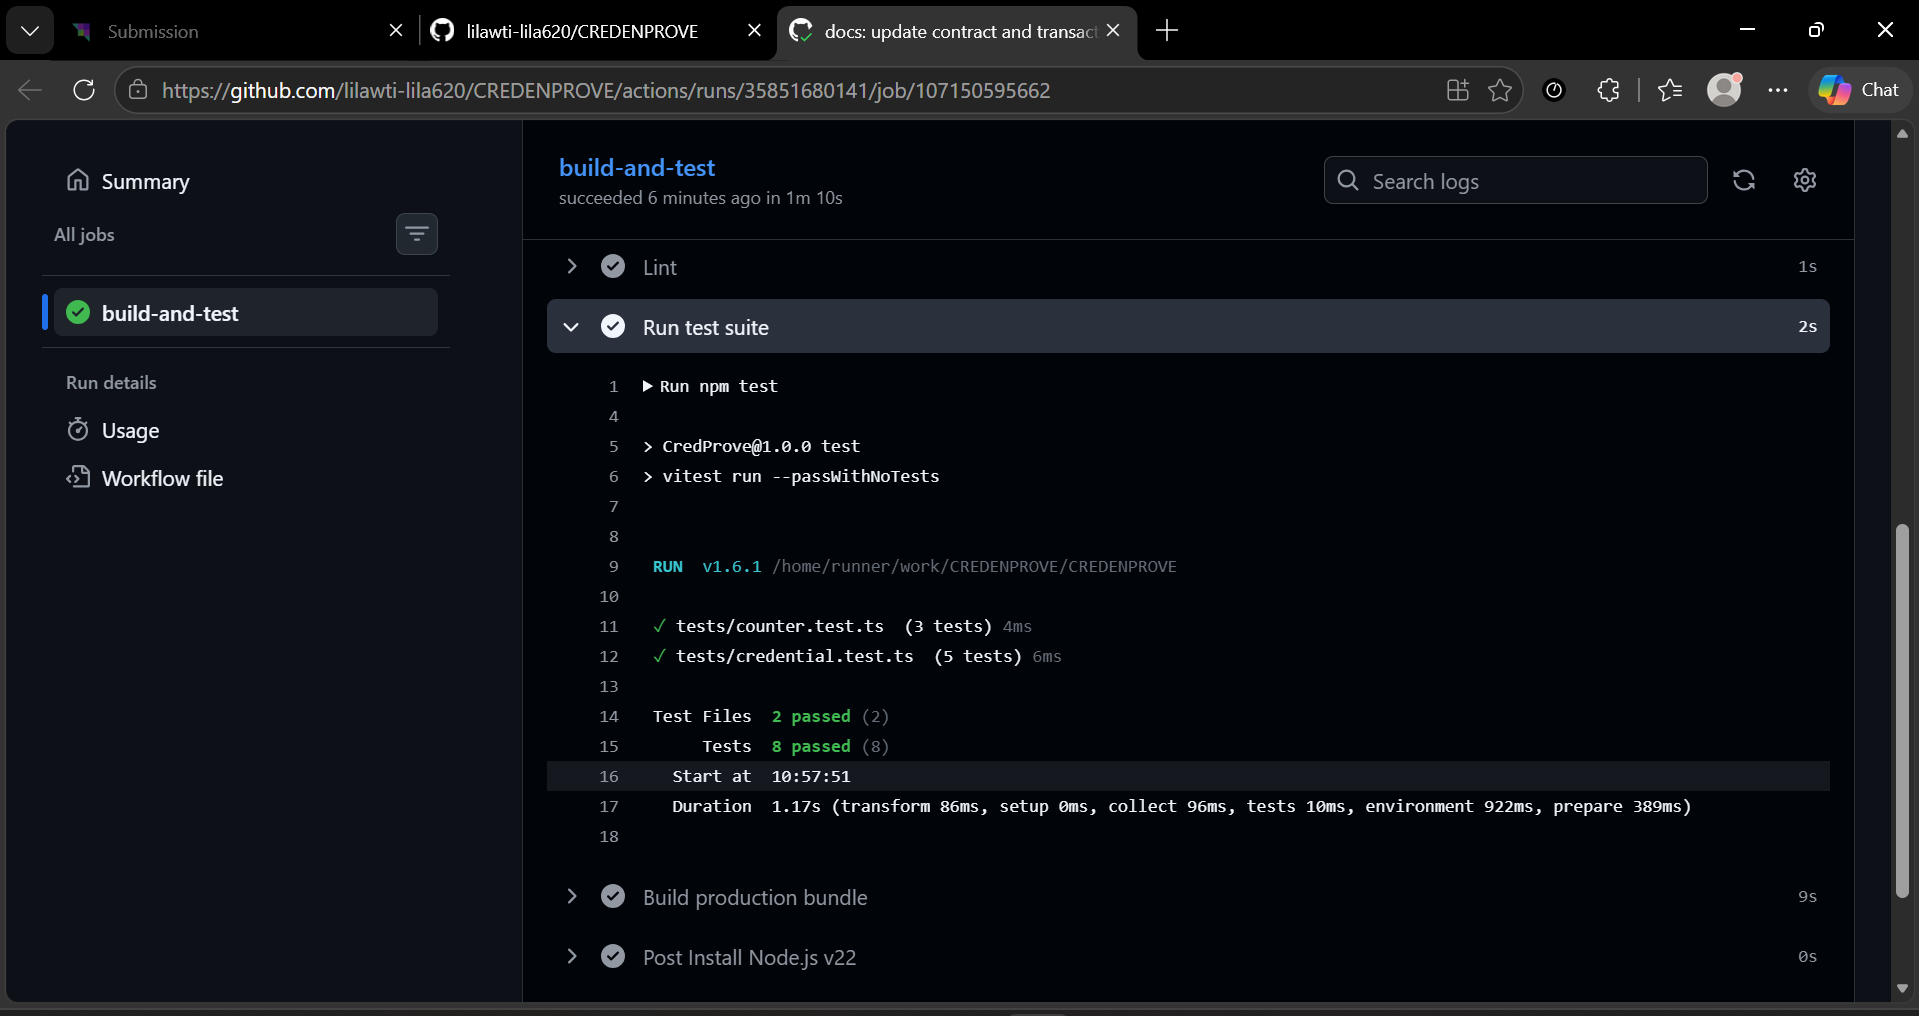
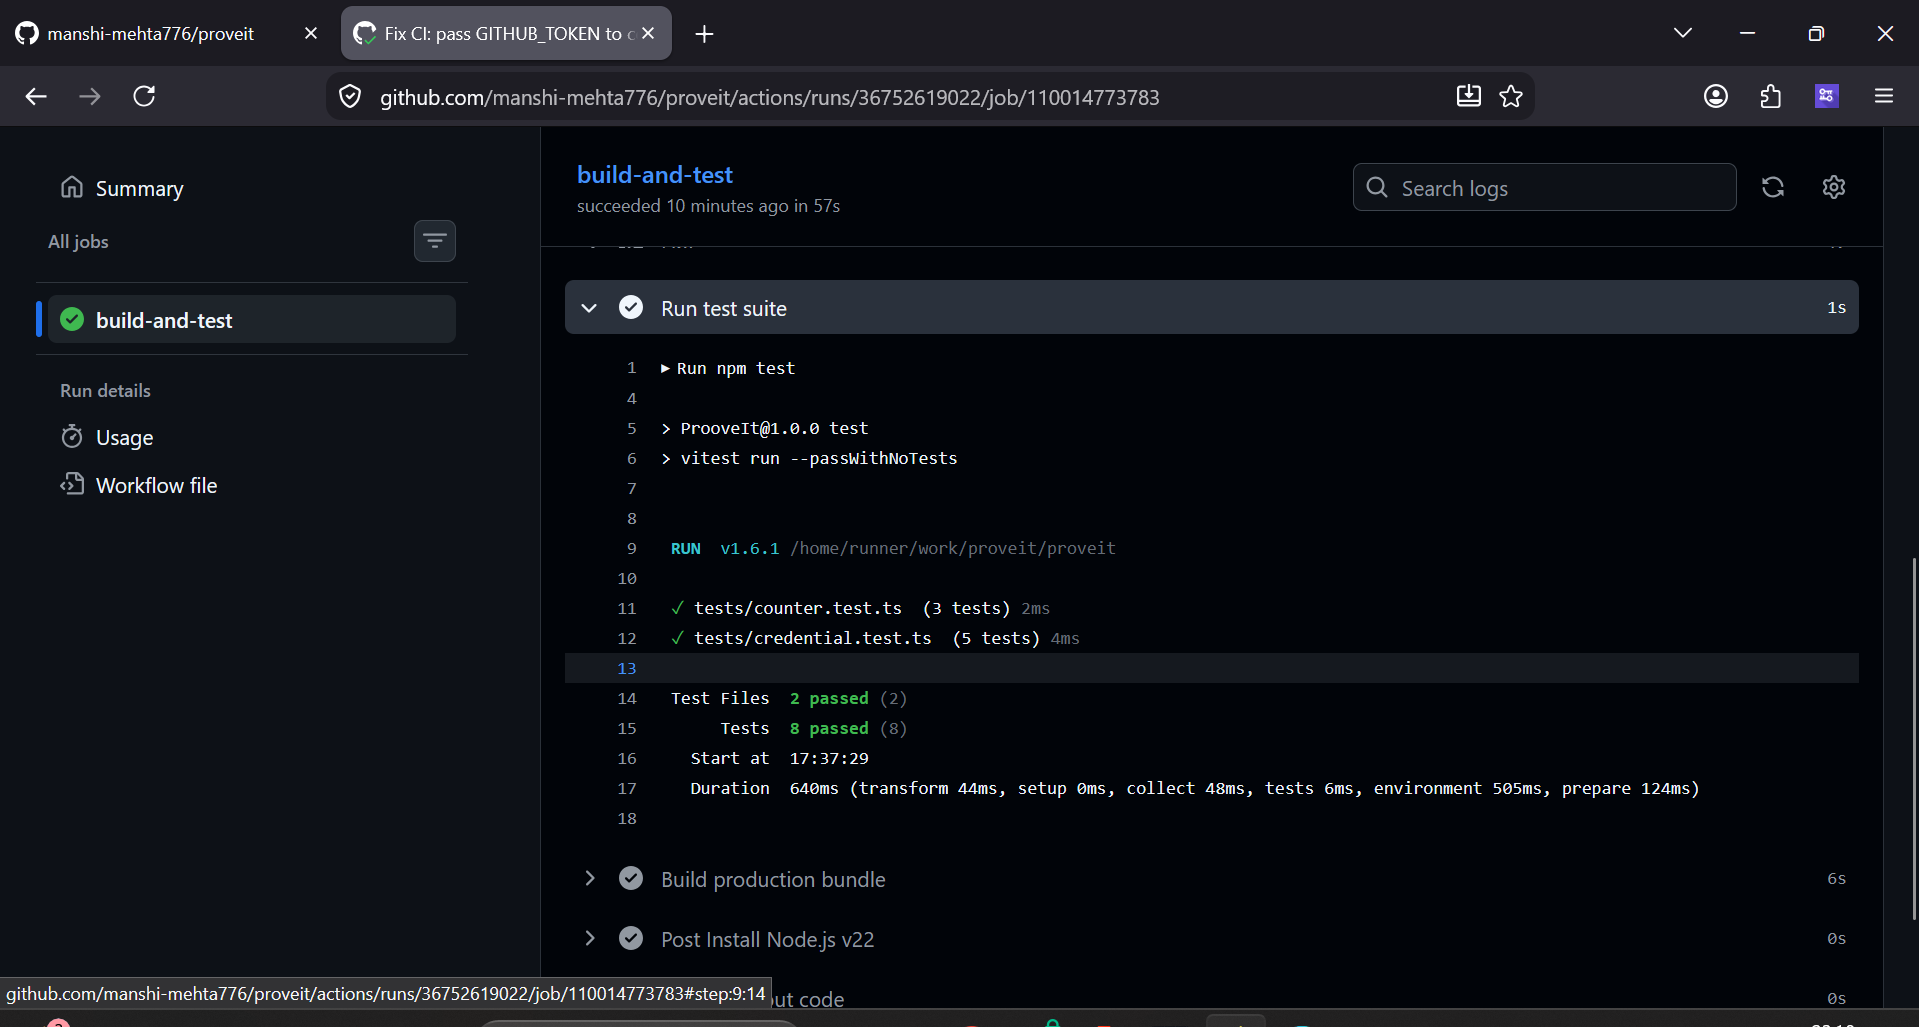
Add 3 new screenshots and update README image references

diff --git a/README.md b/README.md
@@ -21,7 +21,7 @@
 - 🔍 **Contract on Midnight Explorer:** [Contract 0xce8ac13a… | Midnight Explorer](https://preprod.midnightexplorer.com/contracts/0xce8ac13a27ce7a4f29436e0572967ee537c4c3bde78719e0a9729d00ea1f3efb)
 - ⚡ **Confirmed On-Chain Transaction:** [View Extrinsic on 1AM Explorer](https://explorer.1am.xyz/tx/1e6c3a0ef62f1a5ecc53f237f8be9dd3b5b212d3f5e2a85cd3ae3ec366d36215?network=preprod)
 
-![Preprod Contract Explorer](./screenshots/contract%20on%20chain.png)
+![Preprod Contract Explorer](./screenshots/contract%20onchain.png)
 
 ## What This Does
 ProoveIt lets an organization or issuer open a "gate" in front of a restricted resource—such as a developer channel, a grant distribution pool, an exclusive voting round, or an accredited community.
@@ -111,9 +111,7 @@ A status badge is located at the top of this README showing live workflow status
 | Screenshot | Description |
 | :--- | :--- |
 | **Product UI**<br>![Product UI](./screenshots/product%20ui.png) | Interactive dApp interface with live 1AM Wallet integration, credential selection, ZK proof generation, and verification status. |
-| **On-Chain Transaction**<br>![Transaction](./screenshots/transaction%20sucess%20verified.png) | Confirmed transaction on Midnight Preprod Explorer with cryptographic proof verification and ledger state update.<br>🔗 [View on 1AM Explorer](https://explorer.1am.xyz/tx/1e6c3a0ef62f1a5ecc53f237f8be9dd3b5b212d3f5e2a85cd3ae3ec366d36215?network=preprod) |
-| **Contract Explorer**<br>![Contract Explorer](./screenshots/contract%20on%20chain.png) | Midnight Explorer contract page for `ce8ac13a27…` showing contract state, actions, and verification history.<br>🔗 [View on Midnight Explorer](https://preprod.midnightexplorer.com/contracts/0xce8ac13a27ce7a4f29436e0572967ee537c4c3bde78719e0a9729d00ea1f3efb) |
-| **Deployment Success**<br>![Success](./screenshots/sucess.png) | GitHub Actions CI/CD output showing the successful compilation and deployment of the smart contract to the Midnight Preprod Network. |
+| **Contract Explorer**<br>![Contract Explorer](./screenshots/contract%20onchain.png) | Midnight Explorer contract page for `ce8ac13a27…` showing contract state, actions, and verification history.<br>🔗 [View on Midnight Explorer](https://preprod.midnightexplorer.com/contracts/0xce8ac13a27ce7a4f29436e0572967ee537c4c3bde78719e0a9729d00ea1f3efb) |
 | **Test Output (8 Passing)**<br>![Tests Output](./screenshots/test%20output.png) | Vitest test execution output showing 8 passing tests across `tests/counter.test.ts` and `tests/credential.test.ts`. |
 
 ## Product Proposal
